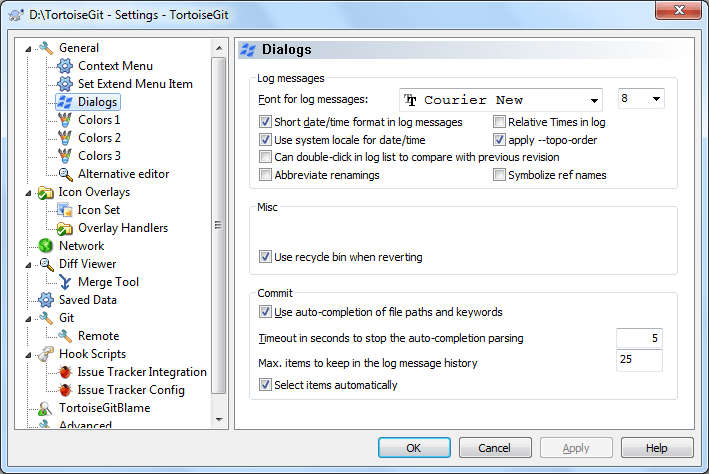
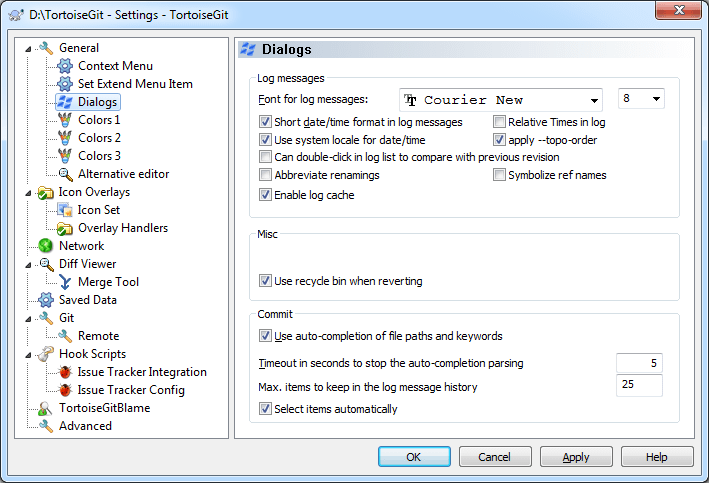
Settings dialog can set EnableLogCache

diff --git a/src/TortoiseProc/Settings/SetDialogs.cpp b/src/TortoiseProc/Settings/SetDialogs.cpp
@@ -1,6 +1,6 @@
 // TortoiseGit - a Windows shell extension for easy version control
 
-// Copyright (C) 2008-2012 - TortoiseGit
+// Copyright (C) 2008-2013 - TortoiseGit
 // Copyright (C) 2003-2008 - TortoiseSVN
 
 // This program is free software; you can redistribute it and/or
@@ -37,6 +37,7 @@ CSetDialogs::CSetDialogs()
 	, m_bUseRecycleBin(TRUE)
 	, m_bAbbreviateRenamings(FALSE)
 	, m_bSymbolizeRefNames(FALSE)
+	, m_bEnableLogCache(TRUE)
 	, m_bAutocompletion(FALSE)
 	, m_dwAutocompletionTimeout(0)
 	, m_dwMaxHistory(25)
@@ -53,6 +54,7 @@ CSetDialogs::CSetDialogs()
 	m_regUseRecycleBin = CRegDWORD(_T("Software\\TortoiseGit\\RevertWithRecycleBin"), TRUE);
 	m_regAbbreviateRenamings = CRegDWORD(_T("Software\\TortoiseGit\\AbbreviateRenamings"), FALSE);
 	m_regSymbolizeRefNames = CRegDWORD(_T("Software\\TortoiseGit\\SymbolizeRefNames"), FALSE);
+	m_regEnableLogCache = CRegDWORD(_T("Software\\TortoiseGit\\EnableLogCache"), TRUE);
 	m_regAutocompletion = CRegDWORD(_T("Software\\TortoiseGit\\Autocompletion"), TRUE);
 	m_bAutocompletion = (DWORD)m_regAutocompletion;
 	m_regAutocompletionTimeout = CRegDWORD(_T("Software\\TortoiseGit\\AutocompleteParseTimeout"), 5);
@@ -89,6 +91,7 @@ void CSetDialogs::DoDataExchange(CDataExchange* pDX)
 	DDX_Check(pDX, IDC_USERECYCLEBIN, m_bUseRecycleBin);
 	DDX_Check(pDX, IDC_ABBREVIATERENAMINGS, m_bAbbreviateRenamings);
 	DDX_Check(pDX, IDC_SYMBOLIZEREFNAMES, m_bSymbolizeRefNames);
+	DDX_Check(pDX, IDC_ENABLELOGCACHE, m_bEnableLogCache);
 	DDX_Check(pDX, IDC_AUTOCOMPLETION, m_bAutocompletion);
 	DDX_Check(pDX, IDC_TOPOORDER, m_bTopoOrder);
 	DDX_Text(pDX, IDC_AUTOCOMPLETIONTIMEOUT, m_dwAutocompletionTimeout);
@@ -109,6 +112,7 @@ BEGIN_MESSAGE_MAP(CSetDialogs, ISettingsPropPage)
 	ON_BN_CLICKED(IDC_USERECYCLEBIN, OnChange)
 	ON_BN_CLICKED(IDC_ABBREVIATERENAMINGS, OnChange)
 	ON_BN_CLICKED(IDC_SYMBOLIZEREFNAMES, OnChange)
+	ON_BN_CLICKED(IDC_ENABLELOGCACHE, OnChange)
 	ON_BN_CLICKED(IDC_AUTOCOMPLETION, OnChange)
 	ON_BN_CLICKED(IDC_TOPOORDER, OnChange)
 	ON_EN_CHANGE(IDC_AUTOCOMPLETIONTIMEOUT, OnChange)
@@ -146,6 +150,7 @@ BOOL CSetDialogs::OnInitDialog()
 	m_bUseRecycleBin = m_regUseRecycleBin;
 	m_bAbbreviateRenamings = m_regAbbreviateRenamings;
 	m_bSymbolizeRefNames = m_regSymbolizeRefNames;
+	m_bEnableLogCache = m_regEnableLogCache;
 	m_bTopoOrder = m_regTopoOrder;
 
 	for (int i=0; i<m_cAutoClose.GetCount(); ++i)
@@ -163,6 +168,7 @@ BOOL CSetDialogs::OnInitDialog()
 	m_tooltips.AddTool(IDC_USERECYCLEBIN, IDS_SETTINGS_USERECYCLEBIN_TT);
 	m_tooltips.AddTool(IDC_ABBREVIATERENAMINGS, IDS_SETTINGS_ABBREVIATERENAMINGS_TT);
 	m_tooltips.AddTool(IDC_SYMBOLIZEREFNAMES, IDS_SETTINGS_SYMBOLIZEREFNAMES_TT);
+	m_tooltips.AddTool(IDC_ENABLELOGCACHE, IDS_SETTINGS_ENABLELOGCACHE_TT);
 	m_tooltips.AddTool(IDC_AUTOCOMPLETION, IDS_SETTINGS_AUTOCOMPLETION_TT);
 	m_tooltips.AddTool(IDC_AUTOCOMPLETIONTIMEOUT, IDS_SETTINGS_AUTOCOMPLETIONTIMEOUT_TT);
 	m_tooltips.AddTool(IDC_AUTOCOMPLETIONTIMEOUTLABEL, IDS_SETTINGS_AUTOCOMPLETIONTIMEOUT_TT);
@@ -230,6 +236,7 @@ BOOL CSetDialogs::OnApply()
 	Store (m_bUseRecycleBin, m_regUseRecycleBin);
 	Store (m_bAbbreviateRenamings, m_regAbbreviateRenamings);
 	Store (m_bSymbolizeRefNames, m_regSymbolizeRefNames);
+	Store (m_bEnableLogCache, m_regEnableLogCache);
 
 	Store (m_bAutocompletion, m_regAutocompletion);
 	Store (m_dwAutocompletionTimeout, m_regAutocompletionTimeout);

diff --git a/src/TortoiseProc/resource.h b/src/TortoiseProc/resource.h
@@ -861,6 +861,7 @@
 #define IDS_PROC_REPOCREATED            1386
 #define IDC_FILTER                      1387
 #define IDS_PROC_BROWSEREFS_DELETEALLTAGS 1387
+#define IDS_SETTINGS_ENABLELOGCACHE_TT  1388
 #define IDC_REVISIONGROUP               1393
 #define IDC_REPOLABEL                   1394
 #define IDS_WARN_FOLDERNOTEXIST         1400
@@ -1235,6 +1236,7 @@
 #define IDC_CALC_DIFF                   1741
 #define IDC_CHECK_MERGE_LOG             1742
 #define IDC_EDIT_MERGE_LOGNUM           1743
+#define IDC_ENABLELOGCACHE              1744
 #define IDS_DLGTITLE_ADD_DIFF_TOOL      1750
 #define IDS_DLGTITLE_ADD_MERGE_TOOL     1751
 #define IDS_DLGTITLE_EDIT_DIFF_TOOL     1752
@@ -1682,7 +1684,7 @@
 #ifndef APSTUDIO_READONLY_SYMBOLS
 #define _APS_NEXT_RESOURCE_VALUE        345
 #define _APS_NEXT_COMMAND_VALUE         32860
-#define _APS_NEXT_CONTROL_VALUE         1744
+#define _APS_NEXT_CONTROL_VALUE         1745
 #define _APS_NEXT_SYMED_VALUE           201
 #endif
 #endif

diff --git a/src/TortoiseProc/Settings/SetDialogs.h b/src/TortoiseProc/Settings/SetDialogs.h
@@ -1,6 +1,6 @@
 // TortoiseGit - a Windows shell extension for easy version control
 
-// Copyright (C) 2011-2012 - TortoiseGit
+// Copyright (C) 2011-2013 - TortoiseGit
 // Copyright (C) 2003-2008 - TortoiseSVN
 
 // This program is free software; you can redistribute it and/or
@@ -80,6 +80,8 @@ private:
 	BOOL				m_bAbbreviateRenamings;
 	CRegDWORD			m_regSymbolizeRefNames;
 	BOOL				m_bSymbolizeRefNames;
+	CRegDWORD			m_regEnableLogCache;
+	BOOL				m_bEnableLogCache;
 	CRegDWORD		m_regAutocompletion;
 	BOOL			m_bAutocompletion;
 	CRegDWORD		m_regAutocompletionTimeout;
